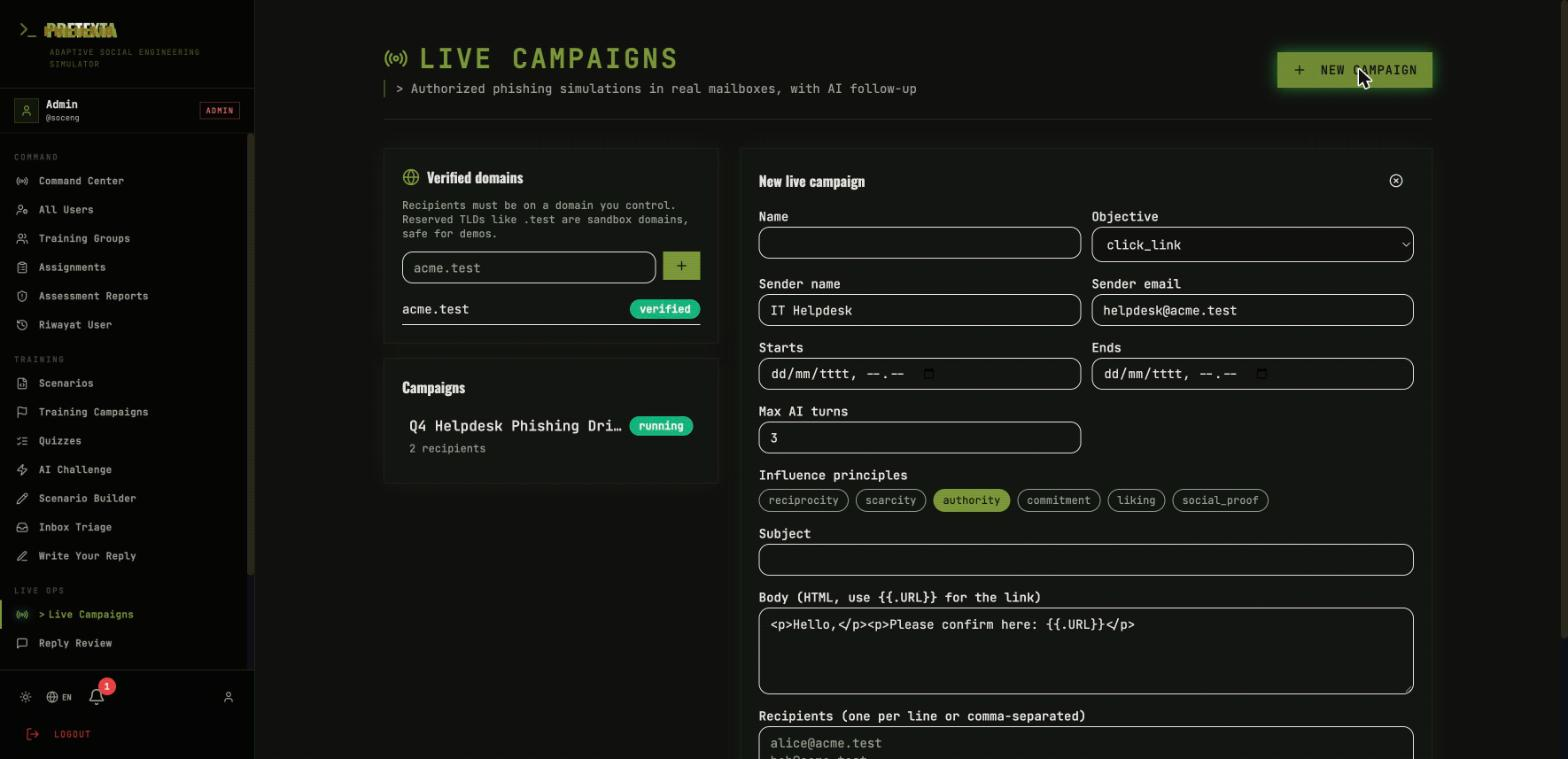
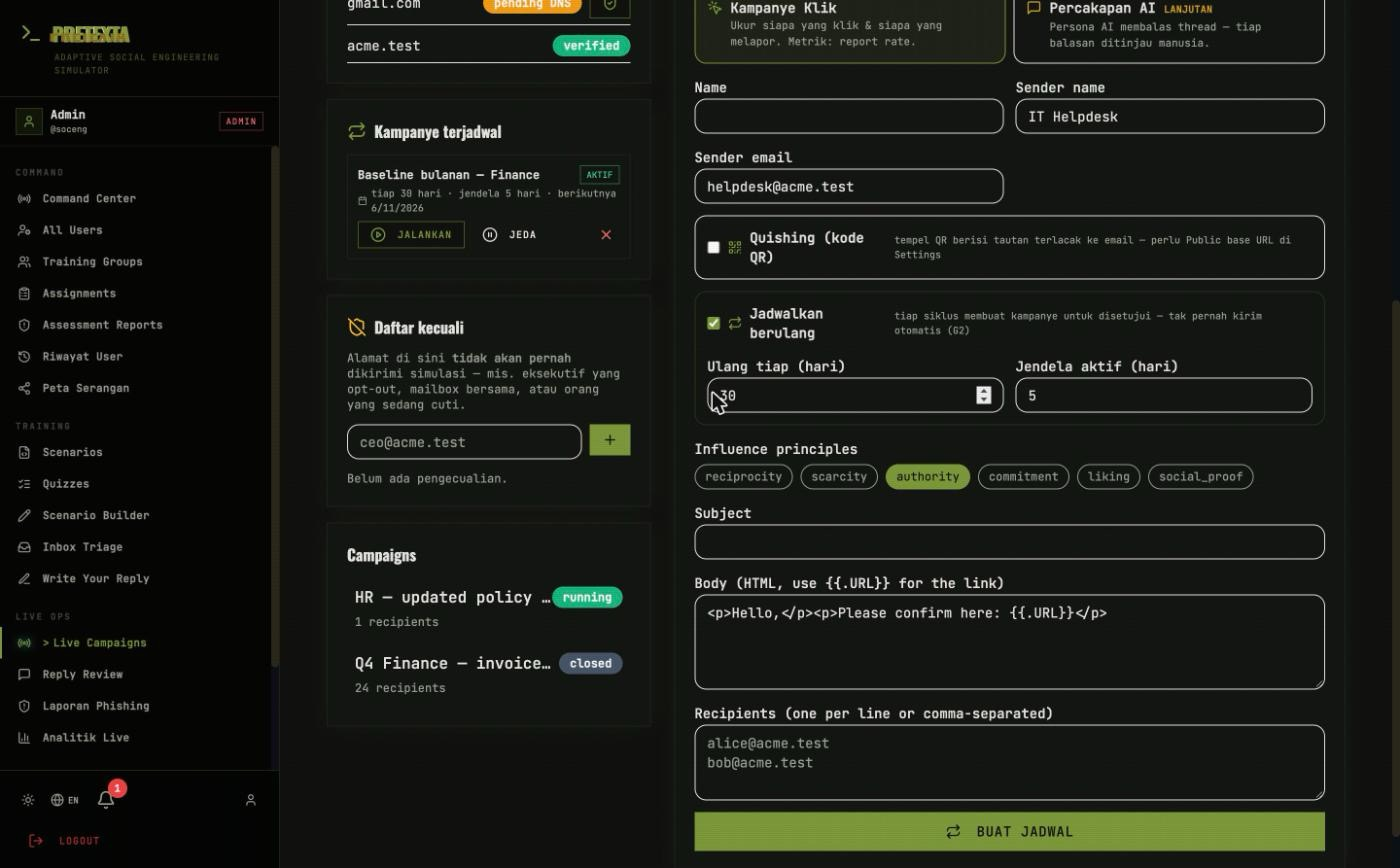
docs(walkthrough): refresh the live-campaign guide to the current UI
§7 (create a campaign) led with an AI objective and predated the click-vs-AI
type selector, the report-rate framing, and the quishing/schedule toggles —
which is what made it confusing to follow. Now:
- lead with the Kampanye Klik (click) flow measured by report rate; AI is step 9
- document the campaign-type selector and the Quishing / Jadwalkan berulang toggles
- current button names (Kampanye baru, Create draft); refresh the form screenshot
- add §13 linking to the rest of LIVE OPS (report-inbox, analytics, remediation, map)

diff --git a/docs/live-campaign-walkthrough.md b/docs/live-campaign-walkthrough.md
@@ -1,9 +1,10 @@
 # Walkthrough: run a live campaign end to end
 
 This is a complete, copy-pasteable tutorial for setting up GoPhish and running a
-full live phishing simulation in Pretexta — from zero to a running campaign with
-AI follow-up. Every step here was executed against the real app; the screenshots
-are from that run.
+full live phishing simulation in Pretexta — from zero to a running **click
+campaign** measured by **report rate**. (The optional AI-conversation layer is
+covered in step 9.) Every step here was executed against the real app; the
+screenshots are from that run.
 
 > Live mode sends real email. Do this first against **sandbox domains**
 > (`*.test`) and a local mail server, as shown here. Only point it at real
@@ -22,6 +23,7 @@ Contents:
 10. [Results and the kill switch](#10-results-and-the-kill-switch)
 11. [Going to real mailboxes](#11-going-to-real-mailboxes)
 12. [Troubleshooting](#12-troubleshooting)
+13. [After the campaign — the rest of LIVE OPS](#13-after-the-campaign--the-rest-of-live-ops)
 
 ---
 
@@ -164,29 +166,51 @@ For a real domain you would add it, then publish the shown DNS **TXT** record
 
 ## 7. Create a campaign
 
-Click **+ New campaign**. You can **Start from a template** (built-in phishing
+Click **Kampanye baru** (top-right). You can **Start from a template** (built-in
 pretexts: IT helpdesk, CEO wire, HR policy, delivery, tool install) to fill the
-fields, then adjust — or fill the form yourself:
+fields, then adjust — or fill the form yourself.
 
 ![New campaign form](images/live-01-create-form.jpg)
+
+**First choose the campaign type.** The form opens on the two choices:
+
+- **Kampanye Klik** *(the default — start here)* — you send a lure and measure
+  behaviour: who clicks, and the headline metric, **who reports it**. No AI, no
+  conversation. This is the primary flow and the one this walkthrough runs.
+- **Percakapan AI** *(advanced)* — an AI persona continues a reply thread toward
+  one approved objective (`reply`, `agree_to_share_otp`, …). Every reply is held
+  for human review (see step 9). Pick this only when you specifically want the
+  conversation layer; it needs IMAP + an LLM configured.
+
+For a click campaign, fill:
 
 | Field | Example |
 |-------|---------|
 | Name | Q4 Helpdesk Phishing Drill |
-| Objective | `agree_to_share_otp` |
 | Sender name / email | IT Helpdesk / `helpdesk@acme.test` (must be on a verified domain) |
 | Influence principles | authority, scarcity |
 | Subject | Action required: verify your mailbox |
-| Body (HTML) | `<p>We detected unusual activity. Confirm within 2 hours: {{.URL}}</p>` |
+| Body (HTML) | `<p>We detected unusual activity. Confirm here: <a href="{{.URL}}">verify now</a></p>` |
 | Recipients | `alice@acme.test`, `bob@acme.test` (one per line or comma-separated) |
 | Starts / Ends | now … within 30 days |
-| Max AI turns | 3 |
 
-`{{.URL}}` is the tracked link GoPhish fills in. Click **Create draft**.
+`{{.URL}}` is the per-recipient tracked link GoPhish fills in — it **must** appear
+in the body. Click **Create draft**.
 
-The campaign opens with its pre-flight result. Green means every guardrail
-check passed; errors (coercive themes, brand impersonation, recipients outside a
-verified domain, a window over 30 days) block submission until fixed.
+**Optional toggles on the same form:**
+
+- **Quishing (kode QR)** — deliver the lure as a QR code that encodes `{{.URL}}`; a
+  phone scan is tracked exactly like a click. Set **Public base URL** in Settings
+  first (e.g. `http://localhost:9442`) so the recipient's mail client can load the
+  QR image.
+- **Jadwalkan berulang** — instead of one campaign, create a *schedule*: every N
+  days it materialises a fresh campaign in `pending_approval` (never auto-sent, so
+  two-person approval still applies). Manage schedules in the **Kampanye terjadwal**
+  card.
+
+The campaign opens with its pre-flight result. Green means every guardrail check
+passed; errors (coercive themes, brand impersonation, recipients outside a verified
+domain, a window over 30 days) block submission until fixed.
 
 ![Pre-flight passed](images/live-02-preflight.jpg)
 
@@ -286,3 +310,22 @@ To run against a real organization instead of the sandbox:
 | Reply read in Thunderbird, poller skipped it | Fixed: the poller tracks UIDs, not the read/\Seen flag, so this no longer happens. |
 | Phishing link won't open (`http://gophish?rid=…`) | `phish_url` is set to an internal Docker name. Set it to a browser-reachable address (`http://localhost:8080` locally, or your public phishing URL), then **launch a new campaign** — the URL is baked in at launch. |
 | Self-signed cert warning at :3333 | Expected for GoPhish's admin UI; accept it, or set `verify_tls: false` (default). |
+
+---
+
+## 13. After the campaign — the rest of LIVE OPS
+
+A click campaign is the start of a loop, not the end. The other LIVE OPS menus
+(all documented in the [user guide §5](user-guide.md#5-live-ops-admin--trainer))
+pick up from here:
+
+- **Laporan Phishing** — the abuse inbox. When a recipient forwards the lure to
+  report it, it is classified and the reporter is **credited into this campaign's
+  report rate**. This is the behaviour you are training for.
+- **Analitik Live** — the report-rate **trend across campaigns** and the **repeat
+  offenders** who fail more than once.
+- **Remediation** — a click here automatically assigns the person targeted
+  practice for the principle they fell for, then schedules a retest (user guide §4).
+- **Peta Serangan (Attack Surface Map)** — see the human paths an attacker could
+  walk, and use **Luncurkan ke titik rawan** to seed your next campaign with the
+  most-susceptible people.
